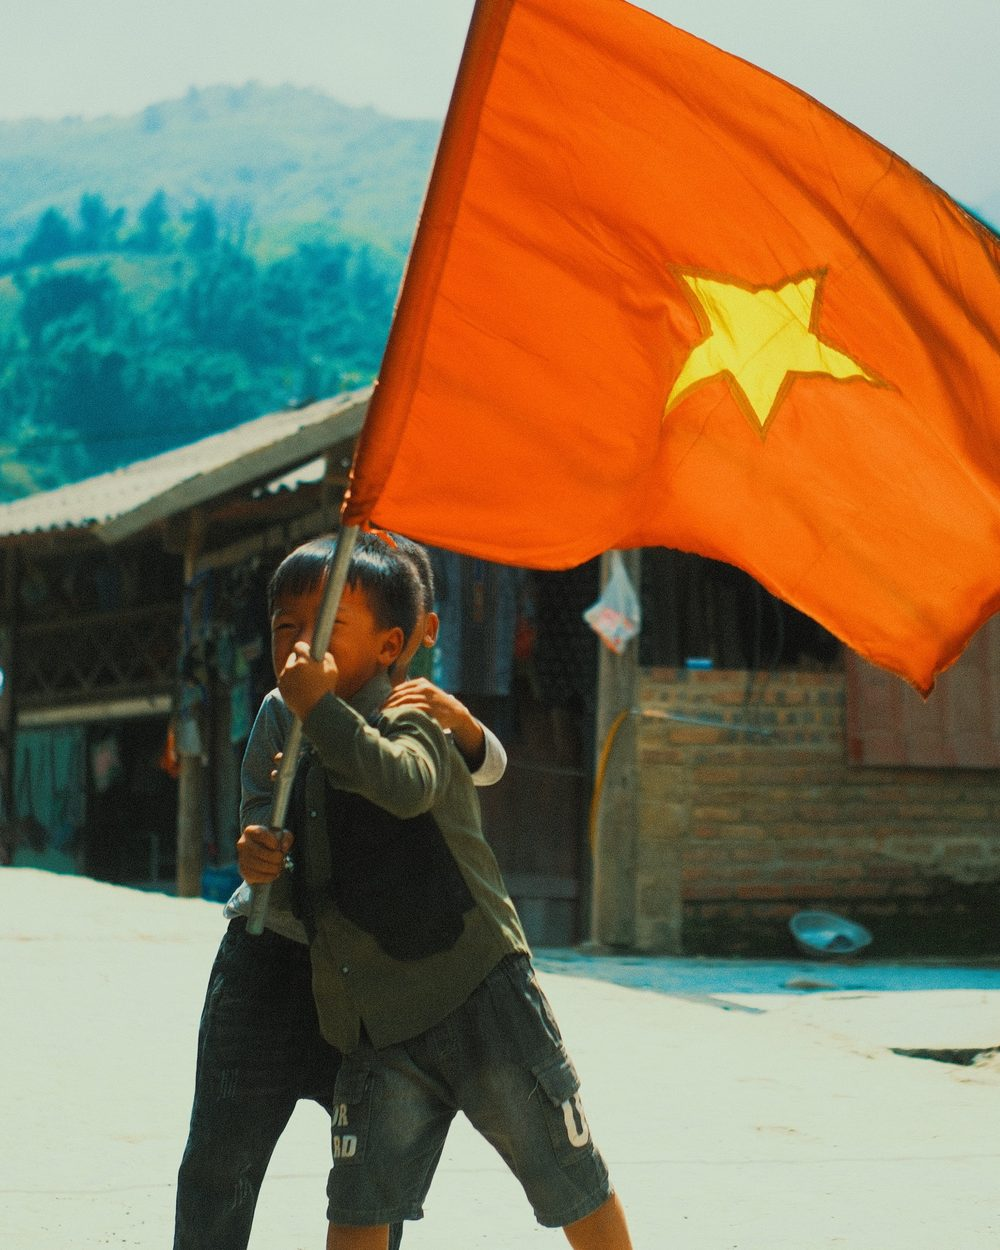
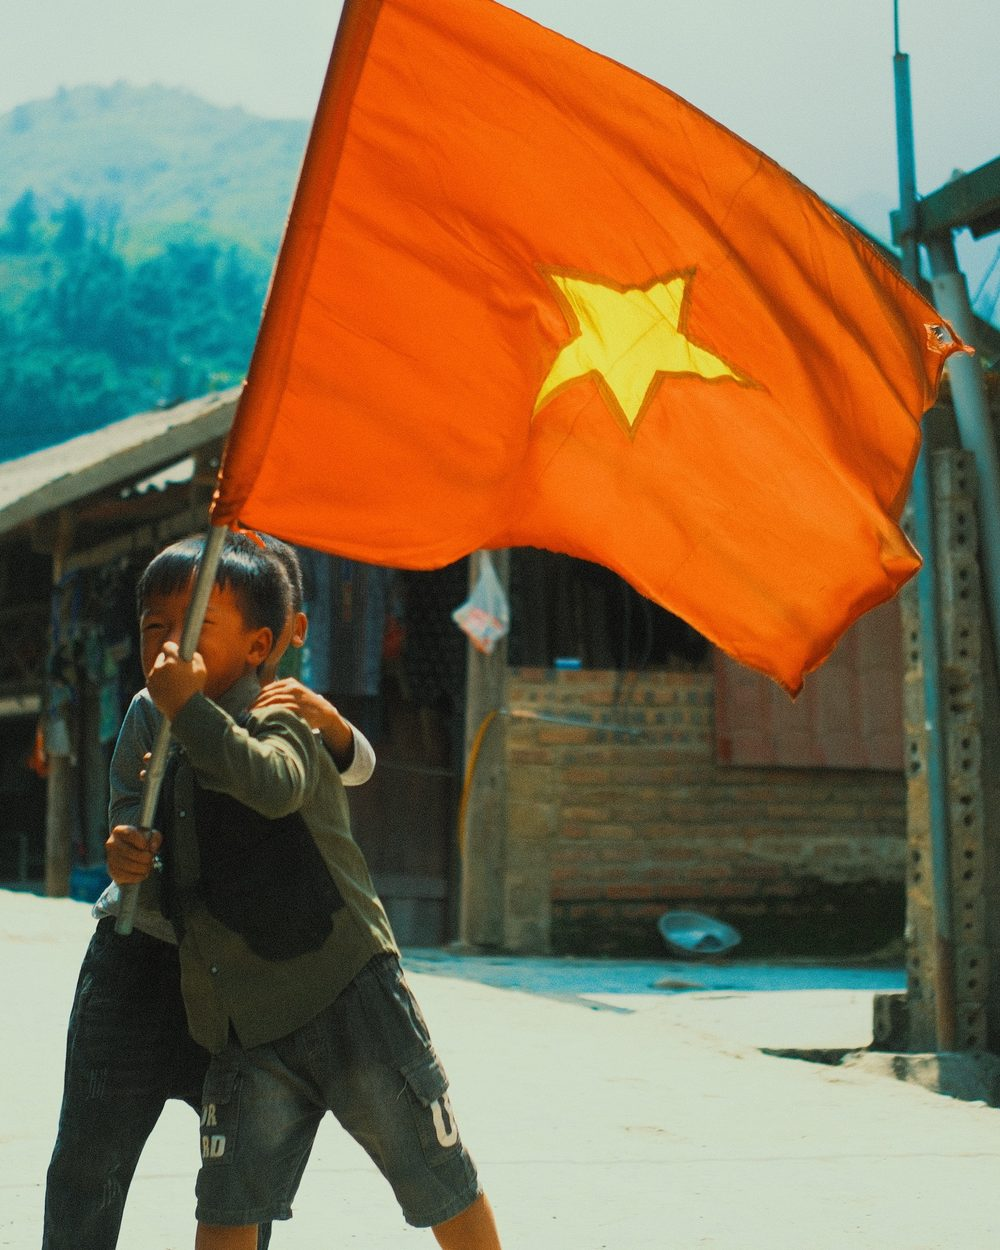
Slideshow: reframe the flag, lanterns and fishermen crops

diff --git a/build.py b/build.py
@@ -36,11 +36,11 @@ SLIDESHOW = [
     ("9553", 0.52, 0.50, 1.00),  # Ninh Bình: the river winding through the karsts
     ("9389", 0.50, 0.50, 1.00),  # Ninh Bình: conical hat and life vest (already 4:5)
     ("0721", 0.32, 0.50, 1.00),  # Sa Pa: the sun rays falling on the left
-    ("1027", 0.49, 0.50, 1.00),  # Sa Pa: both boys whole, the flag above them
-    ("2302", 0.60, 0.45, 1.00),  # Hội An: the two red lanterns, the old façade at the edge
+    ("1027", 0.56, 0.50, 1.00),  # Sa Pa: the boys to the left, the whole flag in
+    ("2302", 0.37, 0.45, 1.00),  # Hội An: the woman on the roof, with the nearer red lantern
     ("2474", 0.40, 0.50, 1.00),  # Hội An: the lit house, the moon and the lantern boat
     ("1830", 0.50, 0.62, 1.00),  # Hội An: the bridge and its reflection, less empty sky
-    ("2098", 0.57, 0.50, 1.00),  # Đà Nẵng: the fisherman in the hat, the net line behind him
+    ("2098", 0.45, 0.50, 1.00),  # Đà Nẵng: the fishermen along the water, the man in the hat on the right
 ]
 
 # The image shown when the link is shared (WhatsApp, iMessage, social media).
